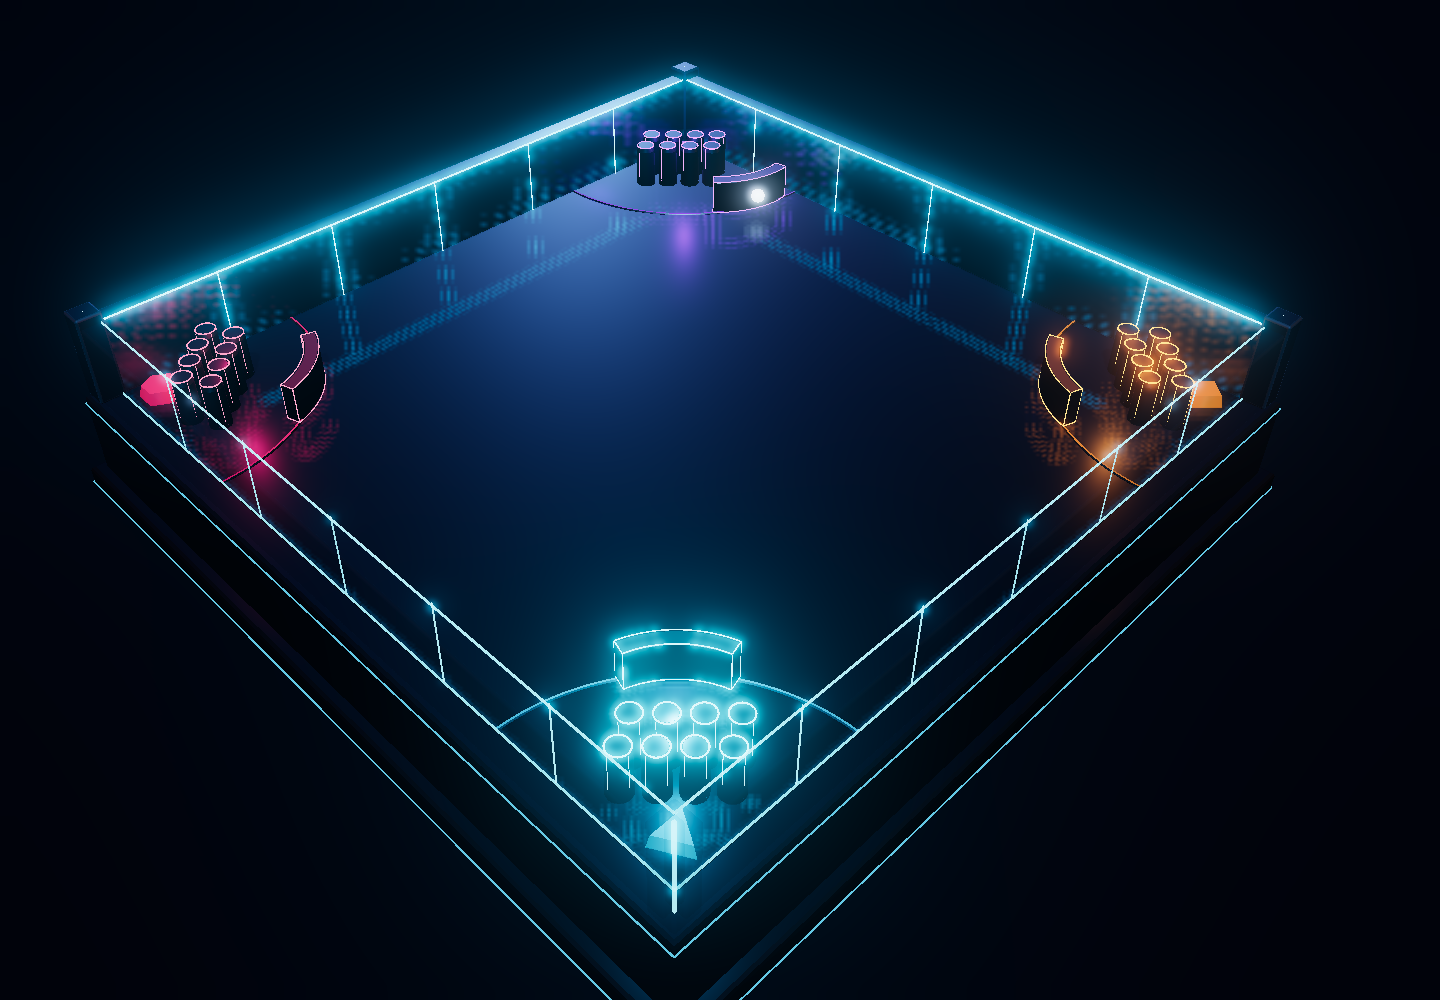
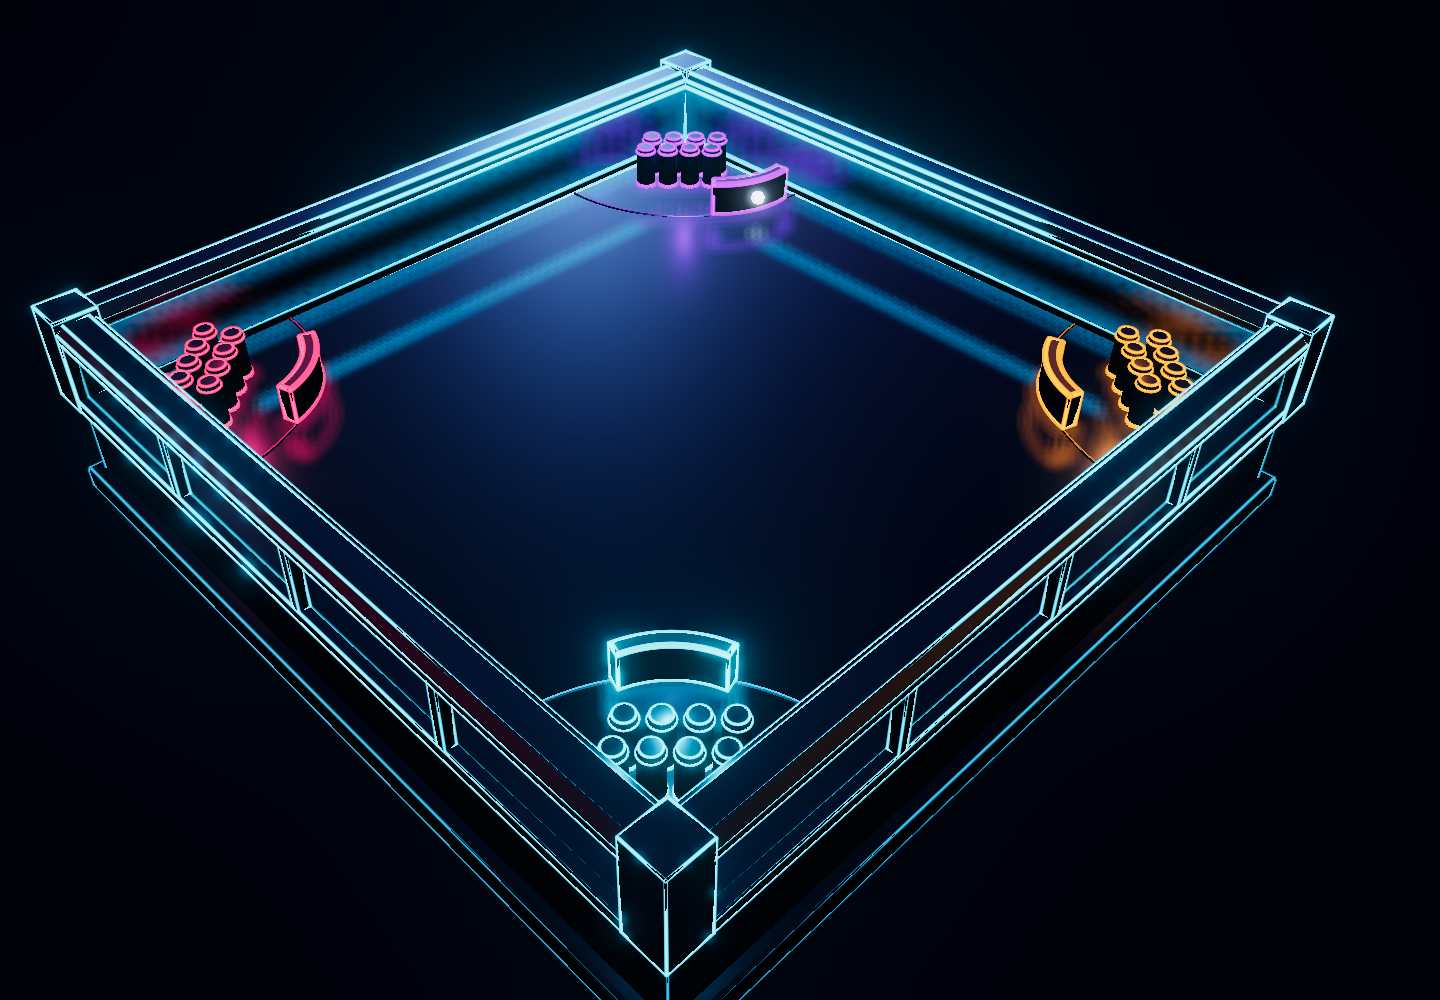
Record shader edge and solid wall review evidence

diff --git a/tests/presentation.spec.ts b/tests/presentation.spec.ts
@@ -27,7 +27,9 @@ test("perspective walls and reflected bloom render, with a reduced-effects path"
 });
 
 test("live perspective camera cannot steer a stationary captured mouse", async ({ page }) => {
-  test.setTimeout(90000);
+  test.setTimeout(240000);
+  // Keep the longer live-motion run affordable in software WebGL; the render check uses full size.
+  await page.setViewportSize({ width: 800, height: 600 });
   await openGame(page, false);
   await play(page);
   await page.clock.runFor(1800);

diff --git a/PLAN.md b/PLAN.md
@@ -98,7 +98,7 @@ For 3–6 seats, derive fortress anchors, arc centre, rail radius, allowed paddl
 
 - **No image textures, decals, sprites, photographed materials, raster skyboxes or HDRIs in the game world.** Use procedural meshes, extrusion, curves, emissive geometry, material properties, optional analytic shaders and instancing. An image atlas is permitted **only** if measured to improve particle performance. Bloom, antialiasing and reflection render targets are technical buffers, not artwork. Procedurally captured neon light cards may provide rough-metal reflections; do not add image/HDRI assets.
 - Use a gently animated **perspective RTS camera** over genuinely extruded 3D geometry. The camera sits behind the selected human fortress, looking toward the arena centre at about 38° above the playing plane. Changing human seat rotates the view and selects the correct translucent foreground walls. Gameplay physics stays 2D in a separate coordinate plane. Captured relative mouse input is independent of camera projection. Motion is bounded to roughly ±1.7° yaw, ±0.9° tilt and ±0.45% zoom, with long smooth cycles. Freeze the current pose on pause or reduced effects/motion without snapping or accumulating a hidden jump. Camera motion cannot change the bat target. This supersedes the earlier orthographic view.
-- Paddles, arena borders, health pieces and balls have visible **thickness, bevels and height separation**. The M01 baseline includes a deep raised plinth, taller health pieces/bats, directional/contact shadows and **restrained bloom**, not just emissive colours. Use solid, bevelled, full-height outer walls with translucent camera-facing panels so incoming balls stay visible. Rear interior faces and the floor capture softened actual scene reflections. Thin neon edges carry broad, lower-contribution bloom without hiding the ball. Genuine 3D height is an M01 requirement, not deferred aesthetic polish for M07. Reduced effects disables bloom.
+- Paddles, arena borders, health pieces and balls have visible **thickness, bevels and height separation**. The M01 baseline includes a deep raised plinth, taller health pieces/bats, directional/contact shadows and **restrained bloom**, not just emissive colours. Use solid, bevelled, full-height outer walls with translucent camera-facing panels so incoming balls stay visible. Rear interior faces and the floor capture softened actual scene reflections. Use a custom antialiased edge shader to boost creases where adjacent face normals differ by at least 35°, initially 3–4.5 CSS pixels wide; do not trace coplanar triangulation or smooth facets. Walls have opaque extruded caps, shoulders, feet and supports around recessed faces, initially 2.22 units high and 0.96 units deep. Keep glow contribution restrained as edge width increases, and preserve ball readability behind opaque structure with a faint occluded-ball ghost. Genuine 3D height is an M01 requirement, not deferred aesthetic polish for M07. Reduced effects disables bloom.
 - Thick edges and high-contrast silhouettes remain crisp under bloom. Strongest visual emphasis: ball → defended opening → paddle → remaining health.
 - Make each player distinct by **colour plus a geometric mark/shape**, not by colour alone. Include reduced-bloom/reduced-flash options.
 - Effects are geometry-first: line arcs, sparks, shards, rings, ball trails and impacts. Particle instancing is encouraged. Don't polish every effect before the basic game is fun.
@@ -317,9 +317,9 @@ When asked to **"do the next milestone"**:
 
 - **Milestone:** M01 — implemented, **Awaiting review**; checkbox remains unchecked until approved.
 - **Implemented / remaining:** Four-seat playable game, pure 120 Hz simulation, physical health collisions/gaps, revenge serves and eliminated-recipient fallback, basic seeded bots, responsive desktop controls, focus pause, results/rematch, procedural depth/destruction effects, conditional return preview and symmetric approach slowdown. Incorporated user feedback: ball 10% larger, double speed, timed additions, independently curved bat face, attacks on adjacent rivals and deliberate banks off both neighbouring walls. M02 and later work remain unstarted.
-- **Checks and evidence:** `pnpm check` passed; `pnpm test` passed (86 tests across 12 files); `PAGES_BASE_PATH=/citadel/ pnpm build` passed. All ten browser cases passed across full and focused Chromium runs, including complete round/results/rematch; the final neon/pause-focused run passed 3/3. Long software-WebGL cases use 180/300-second allowances. `git diff --check` passed. Rendered screenshots of the lower, tighter perspective view were inspected and a desktop gameplay clip recorded with captured relative input. Simulation files are unchanged in this presentation/input revision; the preceding health-cluster revision recorded five seeded all-bot matches with zero collision caps. See `docs/M01_REVIEW.md` and `docs/reviews/m01/perspective-fullscreen.png`; current local capture: `/tmp/citadel-perspective-review/gameplay.webm`. Local demo: http://127.0.0.1:5173/.
-- **Review decisions / blockers:** User reported the gameplay plays well, then requested real perspective, solid raised walls, frosted reflections, restored broad bloom with lower contribution, captured relative mouse controls and pure fullscreen presentation. The latest amendment lowers the camera to about 38° and zooms the arena to fill the viewport; the structural plinth can extend below the view. These are M01 amendments, not approval for M02. The user then identified broad glowing wall seams and an overly pastel look; those seams now sit on the surface, and darker lighting plus saturated geometric edge traces define the volume. Pause controls are compact and can be hidden with H. All are implemented and awaiting review. Initial reference sketch remains unavailable. The 15-second arrival interval and four-ball cap are provisional; both are tunable. Same-tick balls resolve in ID order; first declared winner ends remaining tick processing. No mobile/audio/spin/multiplayer or measured real-hardware performance claim. Production bundle still has a >500 kB chunk warning. No GitHub workflow run, push, deployment, Pages-setting change or `gh` command was performed.
-- **Next action:** User reviews the lower, closer perspective view, full-height frosted walls, ball readability and Play → relative mouse → Escape → Resume flow. The spring/growth tuning is provisional; ball speed, arrivals, banks and revenge-serve rules remain as previously agreed. Request amendments or approve before M02. Current local implementation commits: `38d2d2b` (fullscreen/relative input/perspective) and `2640190` (neon edges, corrected wall seams and hidden pause controls); earlier work remains in Git history.
+- **Checks and evidence:** `pnpm check` passed; `pnpm test` passed (93 tests across 13 files); `PAGES_BASE_PATH=/citadel/ pnpm build` passed. Previous revisions validated all ten browser cases, including complete round/results/rematch. The current shader/wall revision passed four focused browser cases across runs: default/reduced shader/reflection rendering, stationary input through live camera motion, relative-mouse bank limits and hidden pause controls. Long software-WebGL cases use 180/300-second allowances; the live-camera rendering check uses 800×600 and 240 seconds. `git diff --check` passed. Rendered screenshots of the lower, tighter perspective view were inspected and a desktop gameplay clip recorded with captured relative input. Simulation files are unchanged in this presentation/input revision; the preceding health-cluster revision recorded five seeded all-bot matches with zero collision caps. See `docs/M01_REVIEW.md` and `docs/reviews/m01/perspective-fullscreen.png`; current local capture: `/tmp/citadel-perspective-review/gameplay.webm`. Local demo: http://127.0.0.1:5173/.
+- **Review decisions / blockers:** User reported the gameplay plays well, then requested real perspective, solid raised walls, frosted reflections, restored broad bloom with lower contribution, captured relative mouse controls and pure fullscreen presentation. The latest amendment lowers the camera to about 38° and zooms the arena to fill the viewport; the structural plinth can extend below the view. These are M01 amendments, not approval for M02. The user then identified broad glowing wall seams and an overly pastel look; those seams now sit on the surface, and darker lighting plus saturated geometric edge traces define the volume. Pause controls are compact and can be hidden with H. The latest feedback requests broader angle-selected shader edges and geometry with a substantial wall cross-section. Those are implemented with opaque extruded caps/feet/supports and recessed faces; occluded balls retain a faint visible ghost. All are implemented and awaiting review. Initial reference sketch remains unavailable. The 15-second arrival interval and four-ball cap are provisional; both are tunable. Same-tick balls resolve in ID order; first declared winner ends remaining tick processing. No mobile/audio/spin/multiplayer or measured real-hardware performance claim. Production bundle still has a >500 kB chunk warning. No GitHub workflow run, push, deployment, Pages-setting change or `gh` command was performed.
+- **Next action:** User reviews the broader angle-selected outlines, solid wall cross-section, subdued glow and ball visibility behind near caps, plus Play → relative mouse → Escape → Resume. The spring/growth tuning is provisional; ball speed, arrivals, banks and revenge-serve rules remain as previously agreed. Request amendments or approve before M02. Current local implementation commits: `38d2d2b` (fullscreen/relative input/perspective), `2640190` (neon edges and hidden pause controls), and `0c5be13` (feature-edge shader and solid wall cross-sections); earlier work remains in Git history.
 
 ### Progress / approval ledger
 

diff --git a/docs/M01_REVIEW.md b/docs/M01_REVIEW.md
@@ -1,8 +1,8 @@
 # M01 — first playable prototype
 
-Status: awaiting review of the fullscreen perspective arena and relative mouse
-capture. The user requested a lower, closer camera after the first perspective
-pass; it is now about 38° with tighter framing. M02 has not started.
+Status: awaiting review of broader shader-based feature edges and solid wall
+cross-sections. The camera remains at about 38° with tight fullscreen framing.
+M02 has not started.
 
 ## Current build
 
@@ -25,22 +25,30 @@ Nonvisual controls/status remain available to assistive technology.
   Neither camera motion nor screen edges can steer or limit the captured mouse.
   Keyboard uses the existing simulation movement caps. Pause and reduced effects
   hold the current camera pose without snapping.
-- Four bevelled outer walls are **2 units tall and 0.5 units thick**, with thin
-  neon edges and vertical seams. Near panels are translucent so threats remain
-  visible; rear panels retain solid dark frosted faces. These replace the low
-  cutaway strips. The gameplay wall collision plane is unchanged.
-- Softened planar reflections on the floor and rear inner wall faces capture
-  actual moving geometry. Reflectors hide one another during captures to avoid
-  recursive rendering. Rough metal faces also use procedural neon light cards;
-  no image textures or HDRIs are used.
-- Darker ambient/key lighting and saturated player colours replace the pastel
-  treatment. Physical neon tubes trace both bat rims and end faces; health pieces
-  have glowing top/base rims and vertical spines. The plinth has two traced
-  levels. Wall seams are **0.024 units square on the inner surface**, rather than
-  full-thickness luminous slabs; perimeter lights meet cleanly at corners.
-- Bloom uses **0.5 radius**, **0.5 strength** and **1.05 threshold**, with HDR neon
-  cores and dark broad faces. The glow follows geometric edges rather than a
-  uniform bright wash. Reduced effects disables bloom and planar reflections.
+- Walls are **2.22 units tall and 0.96 units deep**, with opaque extruded caps,
+  broad top decks, chamfered shoulders, solid feet, outer supports and corner
+  posts. Recessed dark faces sit between the structural beams. Foreground faces
+  remain translucent; caps, feet and posts are real opaque solids. The physical
+  gameplay boundary remains at 9 units.
+- Floor and rear recessed faces capture softened moving reflections. Reflection
+  planes fit the recessed faces rather than covering the caps. Procedural neon
+  light cards supplement rough metal reflections; no image/HDRI assets are used.
+- Mesh edges are selected at **35° between adjacent face normals**, once when
+  geometry is built. Flat-face triangle diagonals and smooth cylinder facets are
+  omitted. A custom vertex shader expands selected edges in screen pixels;
+  fragment shading adds an antialiased bright core, shoulder and round joins.
+- Structural outlines are **3–4.5 CSS pixels** wide, including the far side of the
+  arena. The shader updates for each render viewport, reflection target and
+  display pixel ratio. It replaces the hand-placed tubes, skinny box strips and
+  decorative cylinder spines. Geometry bounds and shared resource cleanup are
+  retained. Strokes remain depth-tested against other solids.
+- Bloom uses **0.45 radius**, **0.25 strength** and **1.05 threshold**. Wider edges
+  need less bloom contribution to keep the metal faces dark and the ball clear.
+  Reduced effects disables bloom/reflections while preserving geometry and bold
+  feature edges.
+- A faint ball ghost appears only where opaque geometry occludes the ball. It
+  keeps near-wall rebounds readable behind solid caps, using the same position
+  and radius, without changing collision or input rules.
 
 ## Physical health cluster
 
@@ -67,25 +75,26 @@ only trace hash is not a baseline for those rules.
 ## Validation actually run
 
 - `pnpm check`: formatting, lint and strict TypeScript passed.
-- `pnpm test`: **86 tests in 12 files** passed. Includes unlimited relative deltas,
-  clamp/reversal, keyboard handover, capture rejection/disposal, perspective size,
-  solid wall geometry and thin surface seams, physical HDR bat outlines, framing through camera motion, reflection cleanup and the
-  existing health/damage/serve/elimination/replay/stress contracts.
+- `pnpm test`: **93 tests in 13 files** passed. Includes sharp/shallow fold
+  selection, suppression of triangle diagonals and smooth facets, screen and
+  reflection viewport updates, resource sharing/disposal, extruded wall cap
+  dimensions, opaque structure/translucent faces, occluded-ball placement and
+  the existing input, camera, health, collision, serve and determinism contracts.
 - `PAGES_BASE_PATH=/citadel/ pnpm build`: static production build passed.
-- All **ten browser cases** passed across full and focused Chromium runs:
-  captured steering/banks, focus/pause/held-key clearing, timed arrivals/restart,
-  complete round/results/rematch, live-camera input safety, default/reduced
-  rendering, pure fullscreen play, project-path refresh, narrow layout,
-  WebGL2 fallback and hidden pause controls. The complete-round focused rerun
-  passed in 2.0 minutes. Following the final neon revision,
-  `pnpm test:browser --grep 'captured controls|perspective walls|pause controls' --workers=1`
-  passed **3/3** in 1.3 minutes.
-- Full Chromium is required for actual Pointer Lock; the lightweight headless
-  shell rejected capture. Long gameplay cases use a 480×360 viewport and
-  180/300-second allowances for software WebGL. Dedicated rendering checks use
-  the larger default viewport. Earlier timeouts were resolved by those harness
-  changes and sequential focused runs; no gameplay state was edited.
-- `git diff --check` passed. The lower, tighter camera was inspected in rendered
+- Current shader/wall browser checks: **four focused cases passed** across runs:
+  default/reduced shader and reflection rendering (no console/shader errors),
+  stationary captured input through live camera motion, both relative-mouse bank
+  limits, and hiding/restoring pause controls. The final render check passed in
+  1.2 minutes and the focused live-camera rerun in 2.5 minutes under software WebGL.
+- Full Chromium is required for actual Pointer Lock. The live-camera check now
+  uses an 800×600 viewport and 240-second allowance; the dedicated render check
+  retains the larger default viewport. Gameplay controls and complete round /
+  results / rematch passed in the preceding revision. They are historical
+  evidence rather than a fresh full-match run for this presentation-only change.
+- The final local gameplay capture rendered on **Apple M2 Pro / ANGLE Metal**;
+  it exercised real capture/steering/serving/release without page errors. This is
+  rendered validation, not a measured frame-rate or cross-device claim.
+- `git diff --check` passed. The new shader/wall treatment was inspected in rendered
   screenshots and a desktop gameplay clip recorded locally with actual capture.
 - Simulation files were unchanged by this presentation/input revision. The five
   all-bot results below were recorded for the preceding health-cluster revision,
@@ -107,14 +116,20 @@ claim is made.
 
 - [Fullscreen perspective arena, lower camera](reviews/m01/perspective-fullscreen.png).
 - [Gameplay with captured relative input](reviews/m01/perspective-gameplay.png).
+- [Solid wall cross-section with reduced effects](reviews/m01/solid-wall-reduced.png).
+- [Ball visibility behind an opaque cap](reviews/m01/ball-behind-cap.png). These last
+  two are rendering diagnostics with the ball positioned behind the near corner,
+  rather than normal gameplay captures.
 - Local gameplay capture: `/tmp/citadel-perspective-review/gameplay.webm`.
-  It uses mouse/serve input at normal simulation speed, without state edits.
+  It uses real mouse/serve input without gameplay state edits, captured in
+  Chromium on Apple M2 Pro / ANGLE Metal.
   Temporary video is not checked into the repository.
 - Earlier orthographic images remain in the review directory as historical
   comparisons; they do not represent the current camera or fullscreen layout.
 
 Try **Play**, sweep the mouse both ways, then **Escape → Resume**. Check the lower,
-closer framing, visible wall height, frosted reflections and ball readability.
+closer framing, broader sharp edges, solid wall thickness, frosted reflections
+and ball readability near the foreground caps.
 The spring/growth tuning and 15-second ball interval remain provisional.
 
 Only four seats and one basic bot controller are implemented. Mobile, audio,
@@ -123,7 +138,7 @@ milestones. Same-tick balls resolve in ID order. No exhaustive collision or real
 hardware frame-rate claim is made. Settings reset on rematch; a lower live ball
 cap stops additions without deleting existing balls. The bundle still emits a
 
-greater-than-500 kB warning (about 855 kB minified / 232 kB gzip).
+greater-than-500 kB warning (about 856 kB minified / 232 kB gzip).
 
 The original sketch remains unavailable. No remote workflow, push, deployment,
 repository-setting change or `gh` command was performed.

diff --git a/README.md b/README.md
@@ -36,8 +36,11 @@ The new ball size/speed and bank-shot reach reflect the initial hands-on feedbac
 The live perspective camera sits behind your selected fortress at about 38° over
 solid raised walls and a deep 3D arena. Foreground panels are translucent to keep
 balls visible; rear faces and the floor reflect actual moving geometry with a
-soft frosted finish. Saturated neon traces the full height of bats, health pieces
-and walls; a darker lighting setup keeps the glow concentrated on those edges.
+soft frosted finish. Thick opaque wall caps, feet and supports frame the recessed
+faces. A custom shader widens edges where faces meet at 35° or more, giving bold
+neon outlines without lighting flat-face triangle seams. A faint ball ghost
+keeps rebounds readable when a solid cap blocks the camera. Dark faces and
+restrained bloom keep the glow concentrated on the edges.
 Pieces occupy compact staggered rows and grow by 3.5% per loss (up to 24.5%), with
 visible geometry matching the moving collision bodies. Relative mouse input is
 independent of camera motion. Reduced effects/motion disables bloom/reflections
